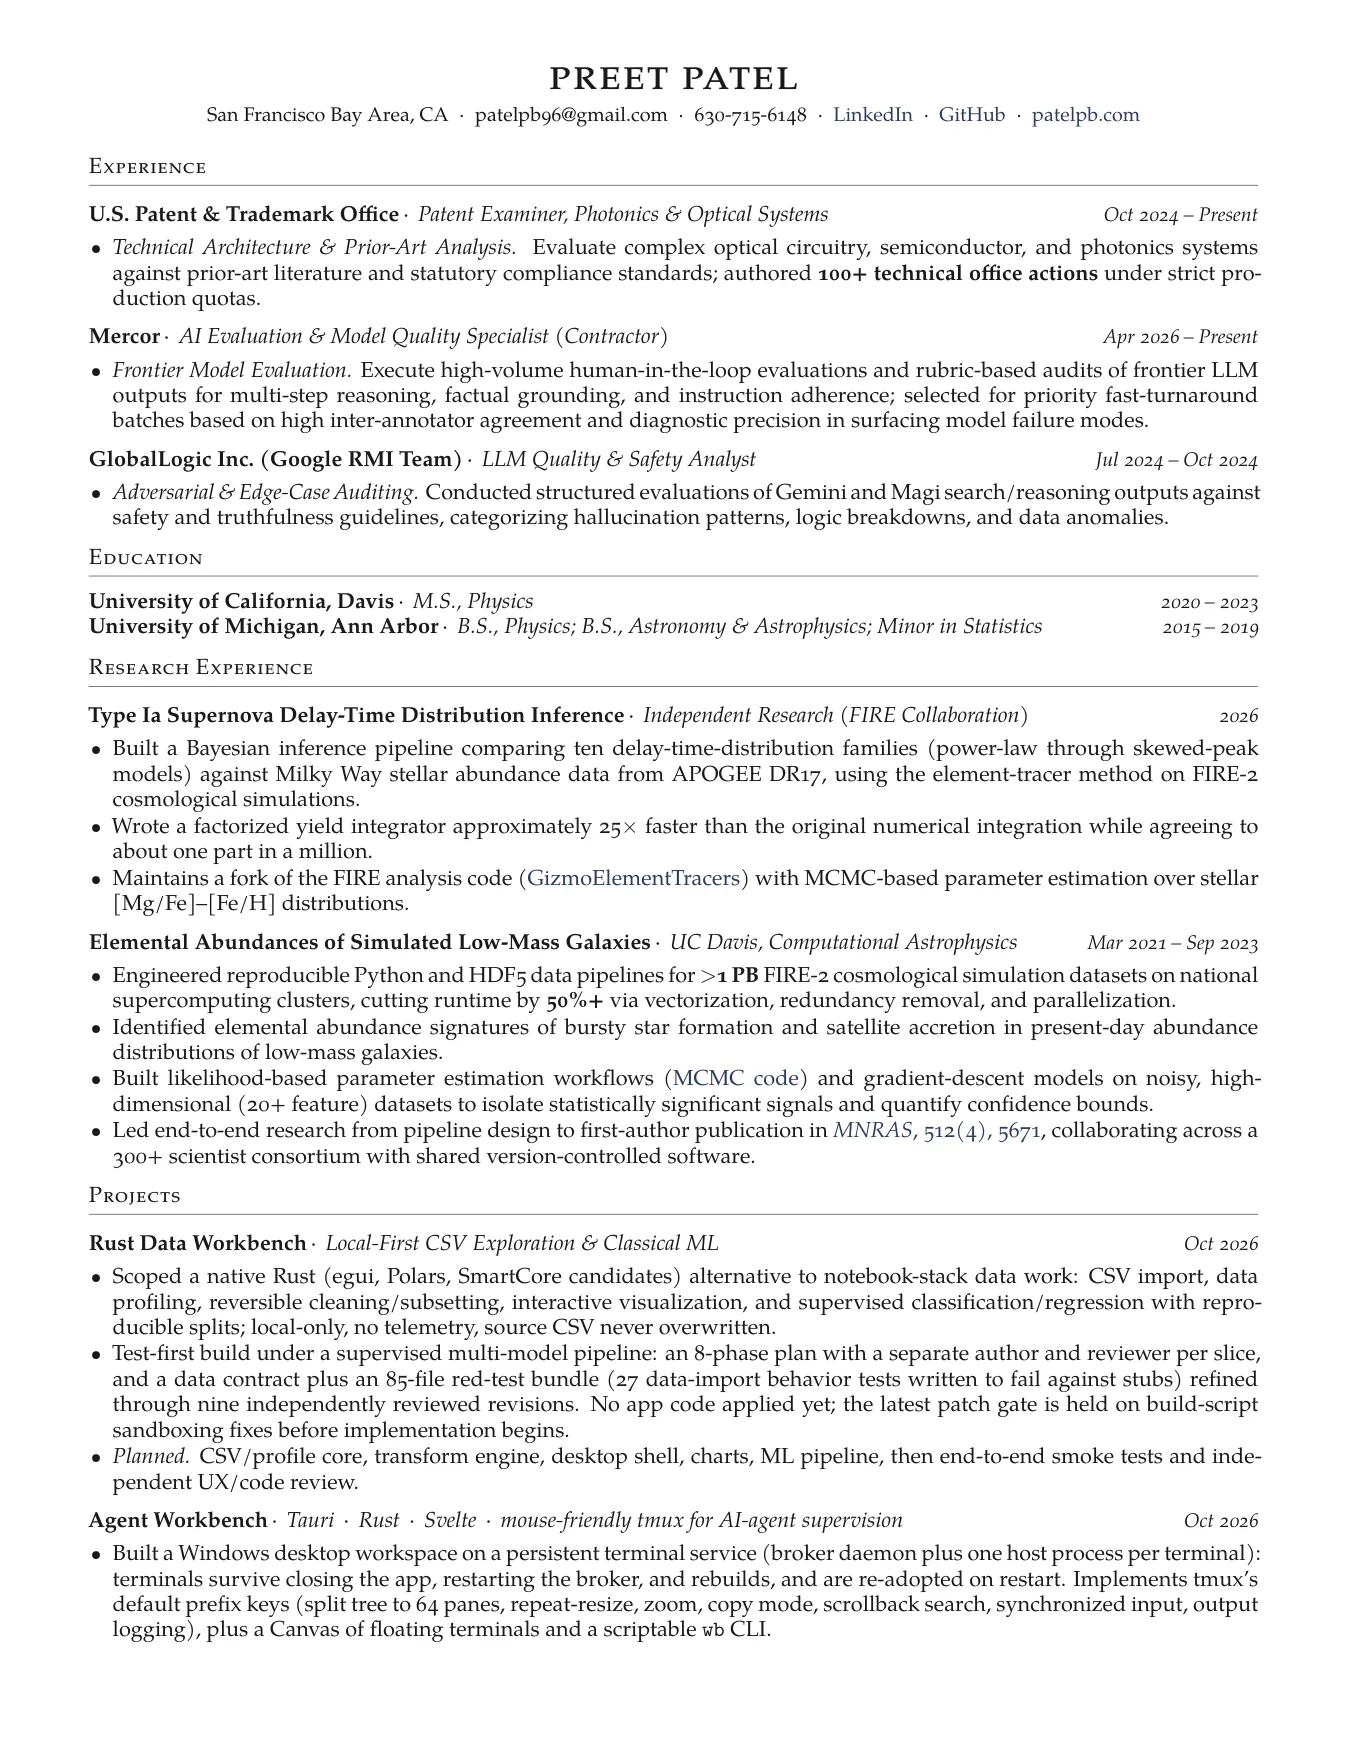
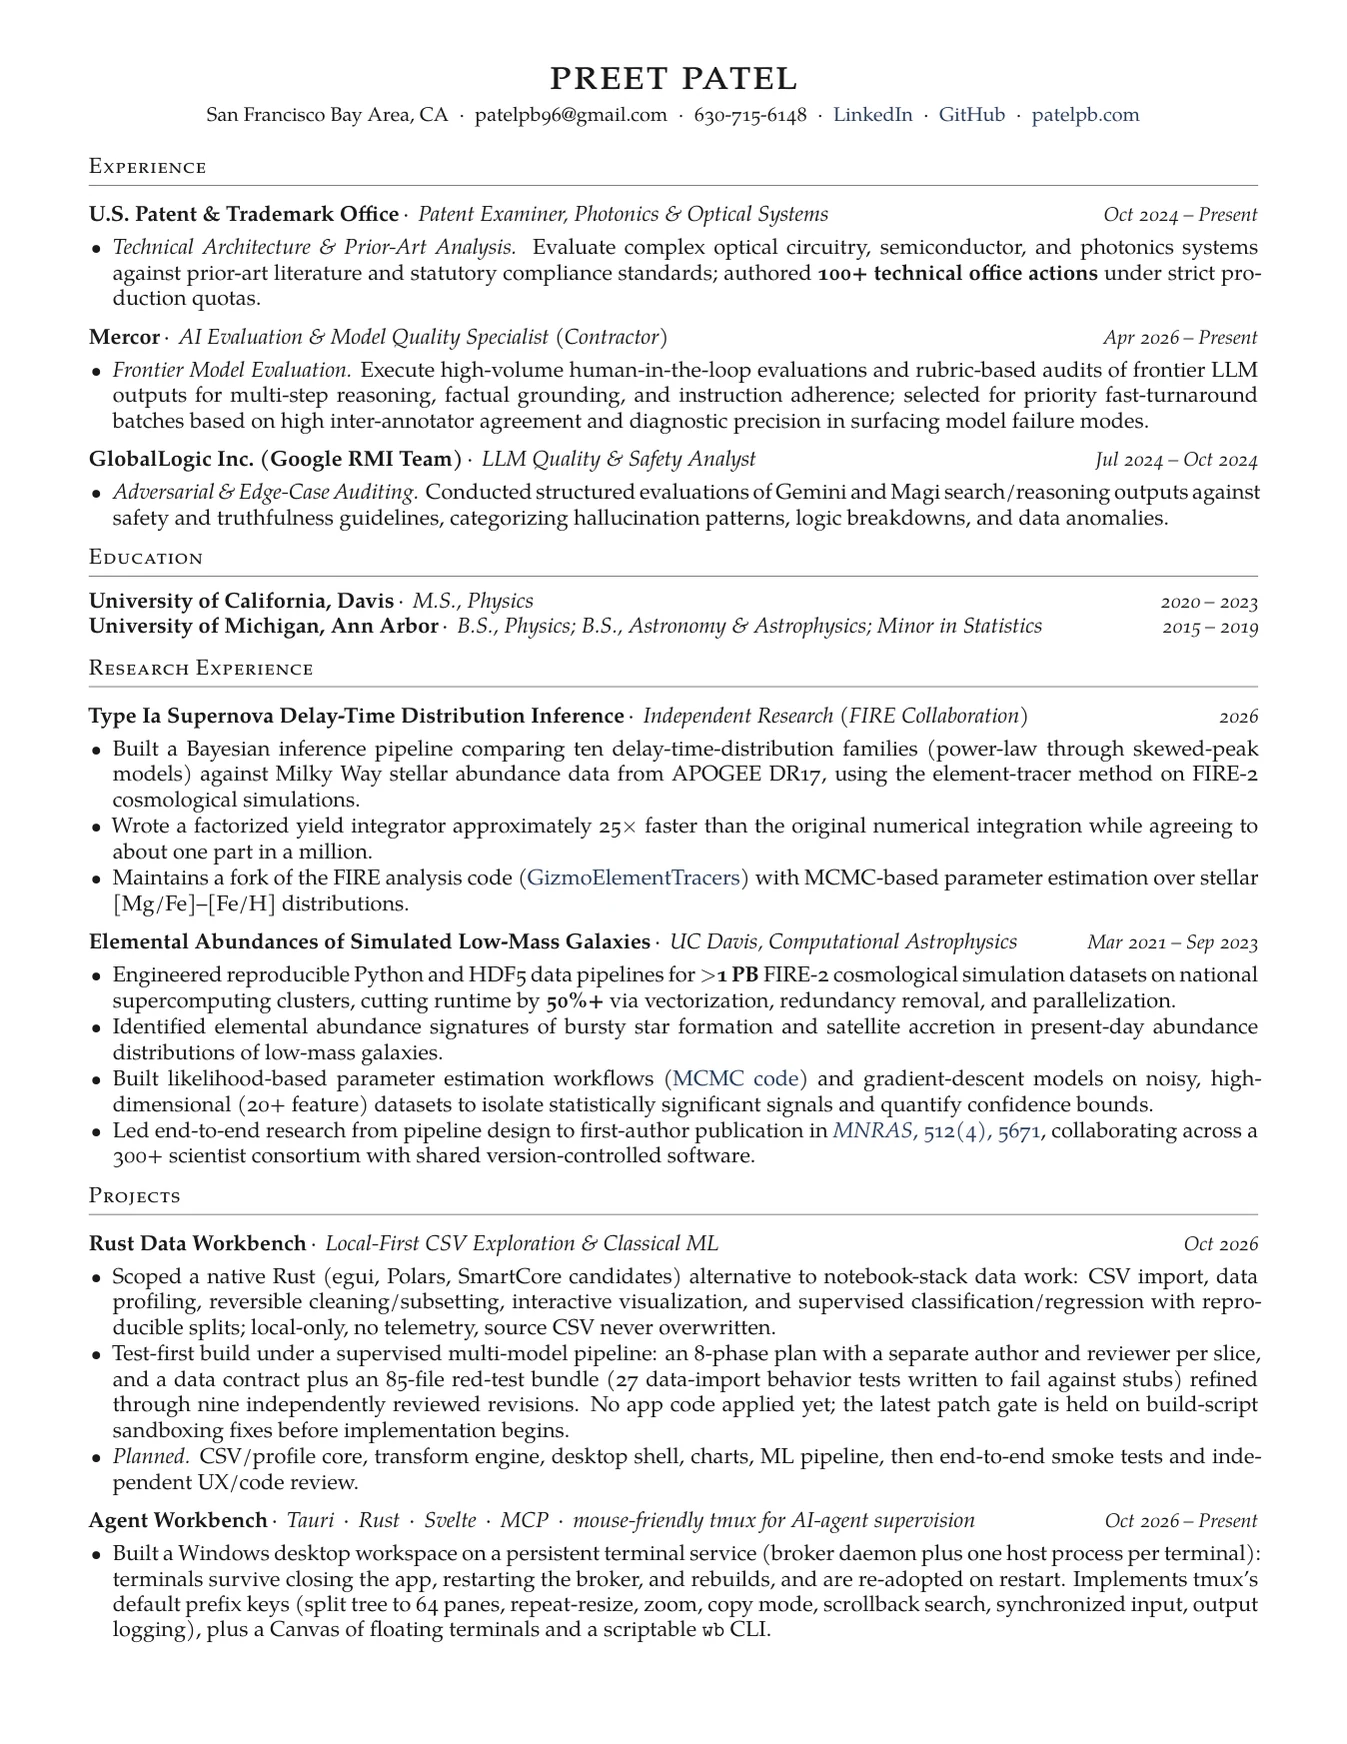
CV: update to the Nov 2026 master (MCP, agent board, red team, site projects)

diff --git a/src/App.jsx b/src/App.jsx
@@ -32,7 +32,7 @@ const sections = [
 // The Resume/CV section shows one document at a time; the resume is the default.
 const cvDocs = [
   { key: "resume", label: "Resume", pdf: `${base}/assets/Resume_public.pdf`, page: `${base}/images/resume_page.webp`, h: 1743, blurb: "One page: recent roles, skills and education." },
-  { key: "cv", label: "CV", pdf: `${base}/assets/CV_public.pdf`, page: `${base}/images/cv_page.webp`, h: 1744, blurb: "Two pages: full research history and publications." },
+  { key: "cv", label: "CV", pdf: `${base}/assets/CV_public.pdf`, page: `${base}/images/cv_page.webp`, h: 1744, blurb: "Three pages: full research history, projects and publications." },
 ];
 const projects = [
   {
